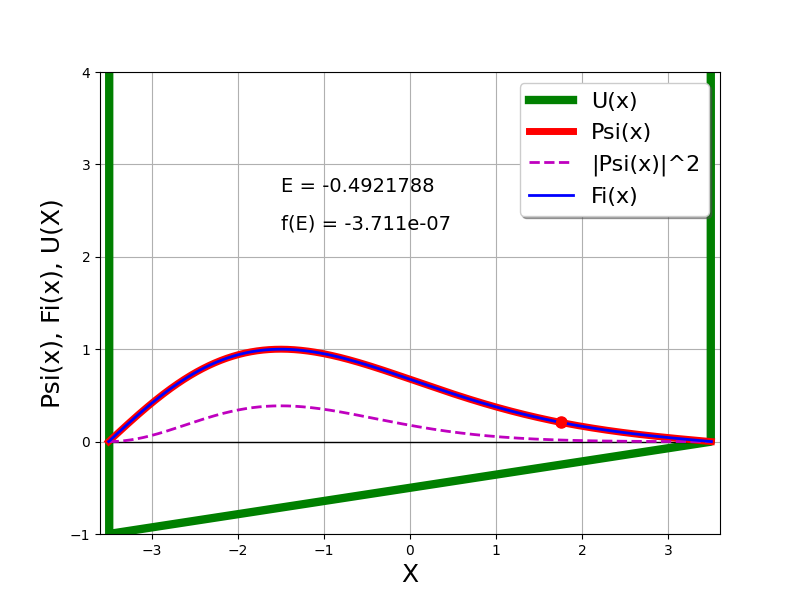
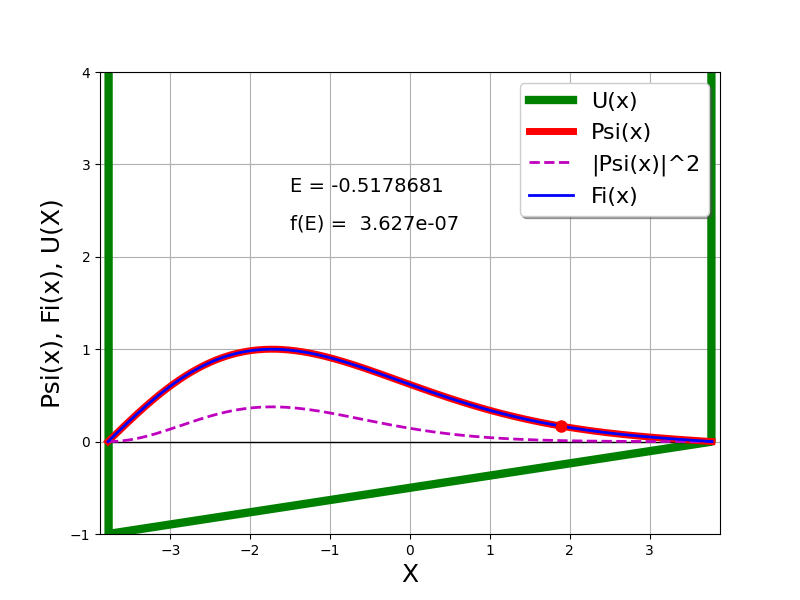
Fix typo

diff --git a/main.py b/main.py
@@ -167,7 +167,7 @@ def plotting_wf(e):
 
 # Задание отрезка [A, B] (края ямы)
 # L = 2.0
-L = 3.5
+L = 2 * 1.8897
 A = -L
 B = +L
 
@@ -204,7 +204,7 @@ e2 = 3.0
 print("e1 =", e1, "   e2 =", e2)
 print("e1 =", e1, "   e2 =", e2, file=LST)
 
-ne = 20001
+ne = 201
 print("ne =", ne)
 print("ne =", ne, file=LST)
 
